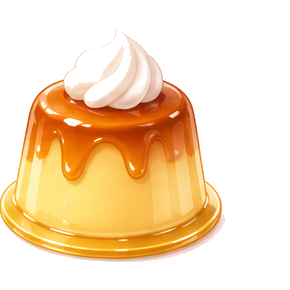
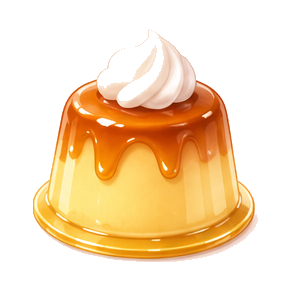
결과 카드 상단 스트립(.result-card::before) 제거 + 푸딩 이미지 중앙 정렬
- .result-card::before 그라데이션 스트립 삭제.
- pudding-caramel/chocolate/matcha 본체가 좌측(-26~-33px)으로 치우쳐 있어
  본체 기준으로 재중심(중앙 X=145).

diff --git a/src/index.css b/src/index.css
@@ -736,18 +736,6 @@ body::after {
 }
 
 /* 상단 컬러 글로우 스트립 */
-.result-card::before {
-  content: "";
-  position: absolute;
-  inset: 0 0 auto 0;
-  height: 7px;
-  background: linear-gradient(
-    90deg,
-    color-mix(in srgb, var(--accent) 55%, #fff),
-    var(--accent)
-  );
-}
-
 /* 카드 아래 포디움 그림자 */
 .result-card::after {
   content: "";
